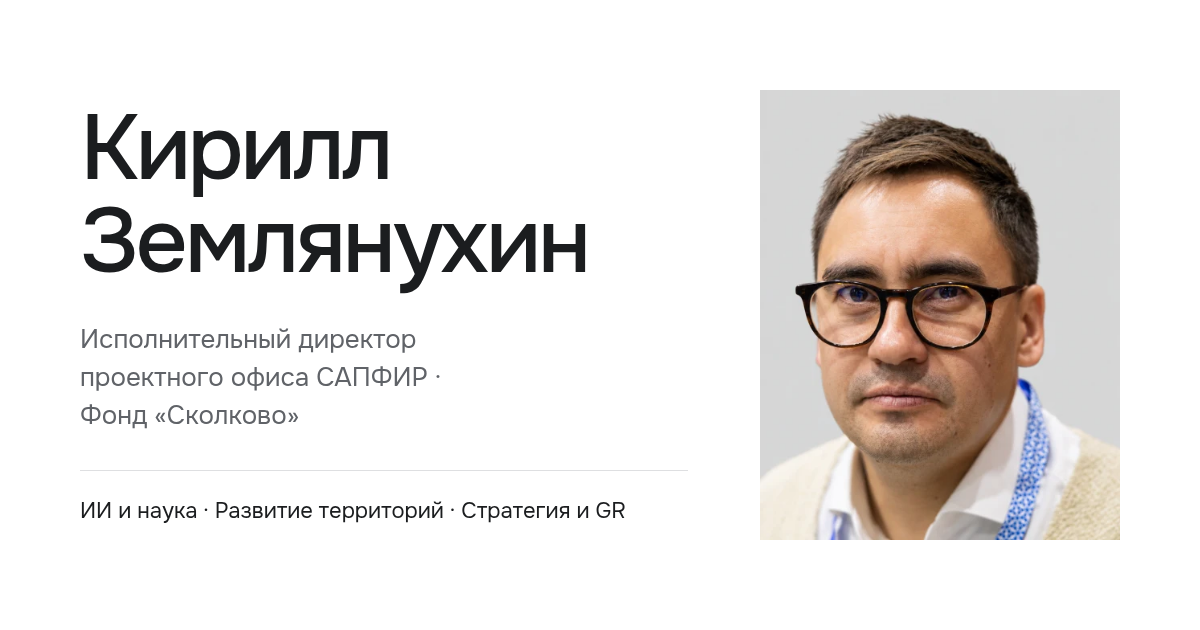
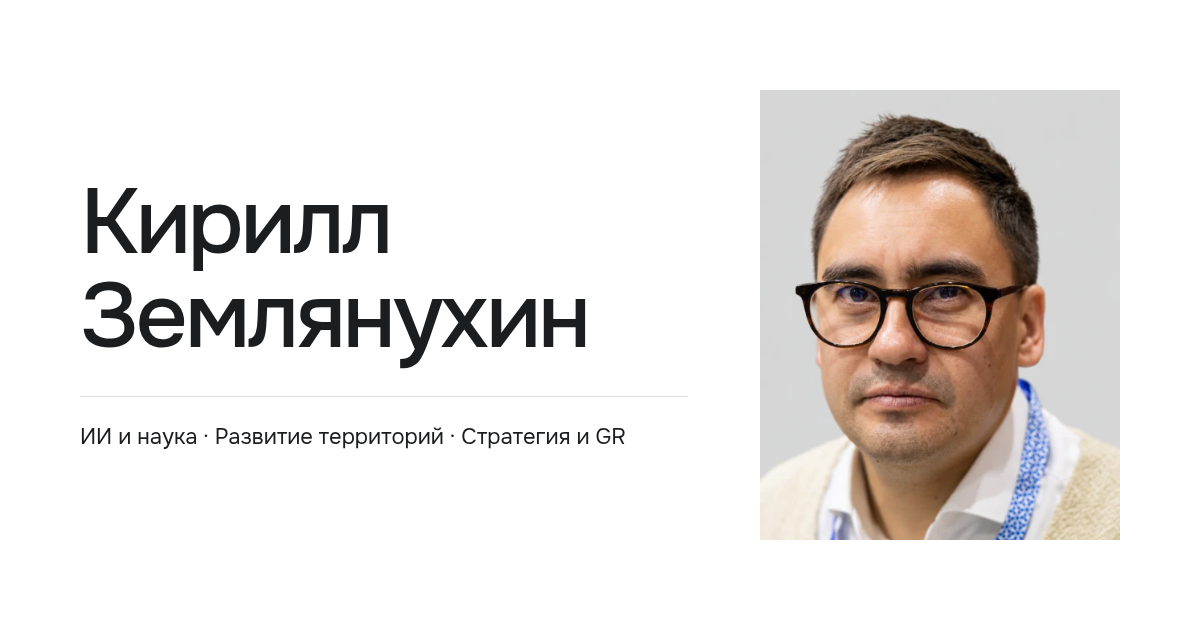
Remove role line and GitHub link; move AI foresight under SAPFIR

Changed region(s): [[0.0617, 0.181, 0.4933, 0.7238], [0.0617, 0.7841, 0.5242, 0.8444], [0.4008, 0.6635, 0.5242, 0.7238]]

diff --git a/style.css b/style.css
@@ -4,21 +4,22 @@
 @font-face{font-family:Onest;src:url('assets/fonts/onest-700.woff2') format('woff2');font-style:normal;font-weight:700;font-display:swap}
 :root{color-scheme:light;--paper:#fff;--ink:#1b1d1f;--muted:#606368;--line:#dedfe1;--focus:#365c80;--light:#f5f5f5;--light-muted:#c8cbd0}
 *{box-sizing:border-box}html{scroll-behavior:smooth;scroll-padding-top:28px}body{margin:0;background:var(--paper);color:var(--ink);font-family:Onest,Arial,sans-serif;font-size:18px;line-height:1.6;-webkit-font-smoothing:antialiased}::selection{color:white;background:#49545c}a{color:inherit;text-underline-offset:5px;text-decoration-thickness:1px}a:hover{text-decoration-color:currentColor}a:focus-visible{outline:3px solid var(--focus);outline-offset:6px}p,h1,h2,h3{margin:0}strong{font-weight:600}img{display:block;max-width:100%}svg{flex:none}.shell{width:min(1120px,calc(100% - 112px));margin-inline:auto}.navigation{display:flex;justify-content:space-between;align-items:center;min-height:96px;border-bottom:1px solid var(--line);font-size:14px}.nav-links{display:flex;gap:32px}.nav-links a{text-decoration:none}.nav-links a:hover{text-decoration:underline}.download{display:inline-flex;align-items:center;justify-content:center;gap:20px;padding:11px 18px;border:1px solid var(--ink);border-radius:2px;min-height:46px;text-decoration:none;transition:background .18s,color .18s}.download:hover{color:white;background:var(--ink)}.download svg{transition:transform .18s}.download:hover svg{transform:translateY(2px)}.skip{position:absolute;top:8px;left:16px;transform:translateY(-200%);padding:8px 16px;background:var(--paper);z-index:2}.skip:focus{transform:translateY(0)}
-.hero{display:grid;grid-template-columns:minmax(0,1fr) 280px;grid-template-areas:'name photo' 'role photo' 'intro photo';column-gap:64px;padding-block:48px 56px;align-items:start}h1{grid-area:name;font-size:clamp(62px,6.1vw,88px);font-weight:500;line-height:1.02;letter-spacing:-.035em;margin:0 0 24px}h1 span{display:block}.role{grid-area:role;text-wrap:pretty;color:var(--muted);font-size:16px;line-height:1.55;max-width:46ch;margin-bottom:24px}.intro{grid-area:intro;font-size:20px;line-height:1.6;max-width:59ch}.portrait{grid-area:photo;width:280px;height:350px;object-fit:cover;align-self:center}
+.hero{display:grid;grid-template-columns:minmax(0,1fr) 280px;grid-template-areas:'name photo' 'intro photo';column-gap:64px;padding-block:48px 56px;align-items:start}h1{grid-area:name;font-size:clamp(62px,6.1vw,88px);font-weight:500;line-height:1.02;letter-spacing:-.035em;margin:0 0 24px}h1 span{display:block}.intro{grid-area:intro;font-size:20px;line-height:1.6;max-width:59ch}.portrait{grid-area:photo;width:280px;height:350px;object-fit:cover;align-self:center}
 section{scroll-margin-top:28px}h2{font-size:32px;font-weight:500;line-height:1.25;letter-spacing:-.025em}h3{font-size:21px;line-height:1.35;font-weight:500;letter-spacing:-.015em}p{max-width:75ch}.directions{border-top:1px solid var(--line);padding-block:32px 56px}.directions h2{font-size:16px;letter-spacing:0;color:var(--muted);margin-bottom:24px}.directions-grid{display:grid;grid-template-columns:1.15fr 1fr 1fr;gap:48px}.directions-grid h3{font-size:20px;line-height:1.35;margin-bottom:12px;max-width:25ch}.directions-grid p{font-size:16px;line-height:1.55;color:var(--muted)}
-.results-band{background:var(--ink);color:var(--light);padding-block:48px 52px}.results-band h2{margin-bottom:32px}.results-grid{display:grid;grid-template-columns:1fr 1fr;gap:32px 64px}.results-grid article{border-top:1px solid #4b4d4f;padding-top:20px}.results-grid h3{font-size:22px;line-height:1.3;margin-bottom:14px}.results-grid p{font-size:17px;line-height:1.65;color:var(--light-muted)}.results-grid strong{color:var(--light);font-weight:600}.results-band ::selection{color:var(--ink);background:white}
+.results-band{background:var(--ink);color:var(--light);padding-block:48px 52px}.results-band h2{margin-bottom:32px}.results-grid{display:grid;grid-template-columns:1fr 1fr;grid-template-rows:auto auto;grid-auto-flow:column;gap:32px 64px}.results-grid article{border-top:1px solid #4b4d4f;padding-top:20px}.results-grid h3{font-size:22px;line-height:1.3;margin-bottom:14px}.results-grid p{font-size:17px;line-height:1.65;color:var(--light-muted)}.results-grid strong{color:var(--light);font-weight:600}.results-band ::selection{color:var(--ink);background:white}
 .analytics{padding-block:48px 72px}.analytics h2{margin-bottom:32px}.reports{display:grid;grid-template-columns:1fr 1fr;gap:48px}.report{display:grid;grid-template-columns:112px minmax(0,1fr);gap:24px;align-items:start}.cover-link{display:block;outline-offset:6px}.cover{width:112px;height:auto;box-shadow:0 0 0 1px rgba(27,29,31,.1),0 8px 18px -8px rgba(27,29,31,.35)}.report h3{font-size:19px;line-height:1.4;margin-bottom:12px;letter-spacing:-.01em}.report p{font-size:15px;line-height:1.6;color:var(--muted);margin-bottom:18px}.report-link{display:inline-flex;gap:12px;align-items:center;font-size:15px;line-height:1.6}.report-link svg{transition:transform .18s}.report-link:hover svg{transform:translate(2px,-2px)}.file-meta{display:block;font-size:13px;line-height:1.6;color:var(--muted);margin-top:8px}
 @media(max-width:1050px){.shell{width:calc(100% - 64px)}.hero{grid-template-columns:minmax(0,1fr) 224px;column-gap:40px}.portrait{width:224px;height:280px}h1{font-size:64px}.intro{font-size:18px}.directions-grid{gap:32px}.directions-grid h3{font-size:18px}.results-grid{gap:32px 40px}.reports{gap:32px}.report{grid-template-columns:88px minmax(0,1fr);gap:20px}.cover{width:88px}.report h3{font-size:18px}}
 @media(max-width:760px){.hero{grid-template-columns:minmax(0,1fr) 180px;column-gap:32px}h1{font-size:54px}.portrait{width:180px;height:225px}.directions-grid{gap:24px}.directions-grid h3{font-size:17px}.reports{grid-template-columns:1fr;gap:32px}.report{grid-template-columns:112px minmax(0,1fr);gap:28px}.cover{width:112px}.report h3{font-size:20px}.report p{font-size:16px}.results-grid{gap:28px 32px}.results-grid h3{font-size:20px}.results-grid p{font-size:16px}}
-@media(max-width:600px){.shell{width:calc(100% - 48px)}body{font-size:17px}.navigation{min-height:80px;font-size:13px}.nav-links{gap:20px}.download{padding:10px 12px;gap:10px;min-height:44px}.hero{grid-template-columns:100px minmax(0,1fr);grid-template-areas:'name name' 'photo role' 'intro intro';gap:24px 24px;padding-block:32px 36px}h1{font-size:clamp(36px,11.25vw,56px);line-height:1.04;margin:0;letter-spacing:-.035em}.portrait{width:100px;height:125px;align-self:start;transform:scaleX(-1)}.role{font-size:15px;margin:0;align-self:center;max-width:none}.intro{font-size:18px;line-height:1.6}.directions{padding-block:24px 32px}.directions h2{margin-bottom:20px;font-size:15px}.directions-grid{grid-template-columns:1fr;gap:20px}.directions-grid h3{font-size:20px;margin-bottom:6px;max-width:none}.directions-grid p{font-size:16px}.results-band{padding-block:32px 36px}h2{font-size:27px}.results-band h2{margin-bottom:24px}.results-grid{grid-template-columns:1fr;gap:24px}.results-grid article{padding-top:18px}.results-grid h3{font-size:21px;margin-bottom:10px}.results-grid p{font-size:16px;line-height:1.65}.analytics{padding-block:32px 44px}.analytics h2{margin-bottom:28px}.report{grid-template-columns:80px minmax(0,1fr);gap:20px}.cover{width:80px}.report h3{font-size:18px;line-height:1.4}.report p{font-size:15px;line-height:1.55;margin-bottom:12px}.report-link{font-size:14px;gap:10px}.file-meta{font-size:12px;margin-top:6px}.reports{gap:32px}}
-@media(max-width:360px){.shell{width:calc(100% - 36px)}.navigation{font-size:12px}.nav-links{gap:14px}.download{padding:9px 10px;gap:8px}.download svg{width:15px}.hero{grid-template-columns:88px minmax(0,1fr);gap:20px}.portrait{width:88px;height:110px}.role{font-size:14px}.report{grid-template-columns:64px minmax(0,1fr);gap:16px}.cover{width:64px}.report h3{font-size:17px}}
+@media(max-width:600px){.shell{width:calc(100% - 48px)}body{font-size:17px}.navigation{min-height:80px;font-size:13px}.nav-links{gap:20px}.download{padding:10px 12px;gap:10px;min-height:44px}.hero{grid-template-columns:minmax(0,1fr) 100px;grid-template-areas:'name photo' 'intro intro';align-items:center;gap:24px 24px;padding-block:32px 36px}h1{font-size:clamp(30px,8.6vw,44px);line-height:1.04;margin:0;letter-spacing:-.035em}.portrait{width:100px;height:125px;align-self:start}.intro{font-size:18px;line-height:1.6}.directions{padding-block:24px 32px}.directions h2{margin-bottom:20px;font-size:15px}.directions-grid{grid-template-columns:1fr;gap:20px}.directions-grid h3{font-size:20px;margin-bottom:6px;max-width:none}.directions-grid p{font-size:16px}.results-band{padding-block:32px 36px}h2{font-size:27px}.results-band h2{margin-bottom:24px}.results-grid{grid-template-columns:1fr;gap:24px}.results-grid article{padding-top:18px}.results-grid h3{font-size:21px;margin-bottom:10px}.results-grid p{font-size:16px;line-height:1.65}.analytics{padding-block:32px 44px}.analytics h2{margin-bottom:28px}.report{grid-template-columns:80px minmax(0,1fr);gap:20px}.cover{width:80px}.report h3{font-size:18px;line-height:1.4}.report p{font-size:15px;line-height:1.55;margin-bottom:12px}.report-link{font-size:14px;gap:10px}.file-meta{font-size:12px;margin-top:6px}.reports{gap:32px}}
+@media(max-width:360px){.shell{width:calc(100% - 36px)}.navigation{font-size:12px}.nav-links{gap:14px}.download{padding:9px 10px;gap:8px}.download svg{width:15px}.hero{grid-template-columns:minmax(0,1fr) 88px;gap:20px}.portrait{width:88px;height:110px}.report{grid-template-columns:64px minmax(0,1fr);gap:16px}.cover{width:64px}.report h3{font-size:17px}}
 @media(prefers-reduced-motion:reduce){html{scroll-behavior:auto}a,a svg{transition:none!important}}
 @page{size:A4;margin:16mm}
-@media print{.navigation,.skip{display:none}.shell{width:100%}.hero{grid-template-columns:1fr 100px;grid-template-areas:'name photo' 'role photo' 'intro intro';gap:12px 24px;padding:0 0 16px}h1{font-size:30pt;line-height:1.05;margin:0}h1 span{display:inline}.portrait{width:100px;height:125px;transform:none}.role{font-size:9pt;max-width:none;margin:0}.intro{font-size:10pt}.directions{padding:12px 0}.directions h2{font-size:10pt;margin-bottom:12px}.directions-grid{grid-template-columns:1fr 1fr 1fr;gap:20px}.directions-grid h3{font-size:10pt;margin-bottom:6px}.directions-grid p{font-size:9pt}.results-band{background:white;color:var(--ink);padding:14px 0;border-top:1px solid var(--line)}h2{font-size:16pt}.results-band h2{margin-bottom:14px}.results-grid{grid-template-columns:1fr 1fr;gap:16px 24px}.results-grid article{padding-top:10px;border-color:var(--line)}.results-grid h3{font-size:11pt;margin-bottom:8px}.results-grid p{font-size:9pt;line-height:1.5;color:var(--ink)}.results-grid strong{color:var(--ink)}.analytics{padding:16px 0 0;border-top:1px solid var(--line)}.analytics h2{margin-bottom:16px}.reports{grid-template-columns:1fr 1fr;gap:24px}.report{grid-template-columns:48px 1fr;gap:12px;break-inside:avoid}.cover{width:48px}.report h3{font-size:10pt;line-height:1.3;margin-bottom:6px}.report p{font-size:8pt;margin-bottom:8px}.report-link{font-size:9pt}.file-meta{font-size:8pt}article{break-inside:avoid}}
+@media print{.navigation,.skip{display:none}.shell{width:100%}.hero{grid-template-columns:1fr 100px;grid-template-areas:'name photo' 'intro photo';gap:12px 24px;padding:0 0 16px}h1{font-size:30pt;line-height:1.05;margin:0}h1 span{display:inline}.portrait{width:100px;height:125px;transform:none}.intro{font-size:10pt}.directions{padding:12px 0}.directions h2{font-size:10pt;margin-bottom:12px}.directions-grid{grid-template-columns:1fr 1fr 1fr;gap:20px}.directions-grid h3{font-size:10pt;margin-bottom:6px}.directions-grid p{font-size:9pt}.results-band{background:white;color:var(--ink);padding:14px 0;border-top:1px solid var(--line)}h2{font-size:16pt}.results-band h2{margin-bottom:14px}.results-grid{grid-template-columns:1fr 1fr;gap:16px 24px}.results-grid article{padding-top:10px;border-color:var(--line)}.results-grid h3{font-size:11pt;margin-bottom:8px}.results-grid p{font-size:9pt;line-height:1.5;color:var(--ink)}.results-grid strong{color:var(--ink)}.analytics{padding:16px 0 0;border-top:1px solid var(--line)}.analytics h2{margin-bottom:16px}.reports{grid-template-columns:1fr 1fr;gap:24px}.report{grid-template-columns:48px 1fr;gap:12px;break-inside:avoid}.cover{width:48px}.report h3{font-size:10pt;line-height:1.3;margin-bottom:6px}.report p{font-size:8pt;margin-bottom:8px}.report-link{font-size:9pt}.file-meta{font-size:8pt}article{break-inside:avoid}}
 
-.hero{grid-template-areas:'name photo' 'role photo' 'intro photo' 'contacts photo'}.contacts{grid-area:contacts;display:flex;flex-wrap:wrap;gap:8px 24px;font-size:16px;line-height:1.5;margin-top:24px}.contacts a{white-space:nowrap}
-@media(max-width:600px){.hero{grid-template-areas:'name name' 'photo role' 'intro intro' 'contacts contacts'}.contacts{font-size:15px;gap:10px 20px;margin-top:0}}
-@media print{.hero{grid-template-areas:'name photo' 'role photo' 'intro intro' 'contacts contacts'}.contacts{font-size:9pt;gap:8px 20px;margin-top:0}}
+.hero{grid-template-areas:'name photo' 'intro photo' 'contacts photo'}.contacts{grid-area:contacts;display:flex;flex-wrap:wrap;gap:8px 24px;font-size:16px;line-height:1.5;margin-top:24px}.contacts a{white-space:nowrap}
+@media(max-width:600px){.hero{grid-template-areas:'name photo' 'intro intro' 'contacts contacts'}.contacts{font-size:15px;gap:10px 20px;margin-top:0}}
+@media print{.hero{grid-template-areas:'name photo' 'intro photo' 'contacts contacts'}.contacts{font-size:9pt;gap:8px 20px;margin-top:0}}
 .footer{display:flex;flex-wrap:wrap;align-items:center;justify-content:space-between;gap:20px 40px;padding-block:32px 48px;border-top:1px solid var(--line);font-size:14px}.footer-name{color:var(--muted)}.footer .footer-contacts{margin:0 auto 0 0;font-size:15px}
 @media(max-width:600px){.footer{flex-direction:column;align-items:flex-start;gap:20px;padding-block:28px 40px}.footer .footer-contacts{margin:0;order:-1}}
 @media print{.footer{display:none}}
+@media(max-width:600px){.results-grid{grid-template-rows:none;grid-auto-flow:row}}

diff --git a/index.html b/index.html
@@ -5,14 +5,14 @@
 <meta name="description" content="ИИ, цифровые технологии и наука. Развитие территорий. Стратегия и GR. Ключевые результаты и аналитика САПФИР.">
 <meta name="theme-color" content="#ffffff"><meta property="og:type" content="profile"><meta property="og:locale" content="ru_RU"><meta property="og:title" content="Кирилл Землянухин"><meta property="og:description" content="ИИ, цифровые технологии и наука · Развитие территорий · Стратегия и GR">
 <meta property="og:url" content="https://qilimanjaro.github.io/"><meta property="og:image" content="https://qilimanjaro.github.io/assets/og-image.png"><meta property="og:image:width" content="1200"><meta property="og:image:height" content="630"><meta property="og:image:alt" content="Кирилл Землянухин — ИИ, наука, развитие территорий"><meta name="twitter:card" content="summary_large_image">
-<link rel="canonical" href="https://qilimanjaro.github.io/"><link rel="icon" href="assets/favicon.svg" type="image/svg+xml"><link rel="preload" href="assets/fonts/onest-400.woff2" as="font" type="font/woff2" crossorigin><link rel="preload" href="assets/fonts/onest-500.woff2" as="font" type="font/woff2" crossorigin><link rel="stylesheet" href="style.css?v=19204c886e">
+<link rel="canonical" href="https://qilimanjaro.github.io/"><link rel="icon" href="assets/favicon.svg" type="image/svg+xml"><link rel="preload" href="assets/fonts/onest-400.woff2" as="font" type="font/woff2" crossorigin><link rel="preload" href="assets/fonts/onest-500.woff2" as="font" type="font/woff2" crossorigin><link rel="stylesheet" href="style.css?v=73da3cab49">
 </head><body><a class="skip" href="#main">Перейти к содержанию</a>
 <nav class="navigation shell" aria-label="Разделы страницы"><div class="nav-links"><a href="#results">Результаты</a><a href="#analytics">Аналитика</a></div><a class="download" href="resume.pdf" download="Кирилл Землянухин — резюме.pdf">Резюме · PDF<svg aria-hidden="true" width="18" height="18" viewBox="0 0 24 24" fill="none" stroke="currentColor" stroke-width="1.5"><path d="M12 3v12m-5-5 5 5 5-5M5 16v5h14v-5"/></svg></a></nav>
-<main id="main"><header class="hero shell"><h1><span>Кирилл</span> <span>Землянухин</span></h1><p class="role">Исполнительный директор проектного офиса САПФИР&nbsp;· Фонд&nbsp;«Сколково»</p><p class="intro">Более 10 лет работаю на стыке науки, технологий и государственного управления. Запускаю организации, формирую команды и организую совместную работу государства, исследователей и бизнеса.</p><p class="contacts" aria-label="Контакты"><a href="tel:+79023066629">+7 902 30 666 29</a><a href="https://t.me/kirillzeml">@kirillzeml</a><a href="https://github.com/Qilimanjaro">GitHub</a></p><img class="portrait" src="assets/portrait.webp" width="448" height="560" alt="Портрет Кирилла Землянухина" fetchpriority="high"></header>
+<main id="main"><header class="hero shell"><h1><span>Кирилл</span> <span>Землянухин</span></h1><p class="intro">Более 10 лет работаю на стыке науки, технологий и государственного управления. Запускаю организации, формирую команды и организую совместную работу государства, исследователей и бизнеса.</p><p class="contacts" aria-label="Контакты"><a href="tel:+79023066629">+7 902 30 666 29</a><a href="https://t.me/kirillzeml">@kirillzeml</a></p><img class="portrait" src="assets/portrait.webp" width="448" height="560" alt="Портрет Кирилла Землянухина" fetchpriority="high"></header>
 <section id="directions" class="directions shell" aria-labelledby="directions-title"><h2 id="directions-title">Направления
 </h2><div class="directions-grid"><article><h3>ИИ, цифровые технологии и наука</h3><p>Исследовательские программы, научная аналитика и финансирование разработок.</p></article><article><h3>Развитие территорий</h3><p>Научно-образовательные кампусы, мастер-планы и инфраструктура.</p></article><article><h3>Стратегия и GR</h3><p>Федеральные проекты, технологические дорожные карты и взаимодействие с государством.</p></article></div></section>
 <section id="results" class="results-band" aria-labelledby="results-title"><div class="shell"><h2 id="results-title">Ключевые результаты
-</h2><div class="results-grid"><article><h3>Запуск САПФИР</h3><p>Участвовал в создании проектного офиса. Сформировал команду из <strong>23 человек</strong> и организовал выполнение программы из <strong>80 задач</strong>. Бюджет в 2025 году — <strong>150 млн рублей</strong>.</p></article><article><h3>Территория НЦФМ</h3><p>Организовал разработку и защиту мастер-плана научно-образовательной территории на <strong>700 га</strong>. Согласовал решения с Росатомом, правительством субъекта РФ и городом. По мастер-плану идёт строительство.</p></article><article><h3>Цифровые программы Росатома</h3><p>Координировал разработку <strong>семи дорожных карт</strong>, принятых и переданных государству. Готовил предложения по финансированию: за период работы на цифровые разработки Росатома привлечено <strong>свыше 20 млрд рублей</strong>.</p></article><article><h3>Международный форсайт ИИ</h3><p>Совместно со Сбером организовал исследование с участием <strong>свыше 270 учёных из 36 стран</strong>. Президент РФ сослался на его результаты на AI Journey 2025.</p></article></div></div></section>
+</h2><div class="results-grid"><article><h3>Запуск САПФИР</h3><p>Участвовал в создании проектного офиса. Сформировал команду из <strong>23 человек</strong> и организовал выполнение программы из <strong>80 задач</strong>. Бюджет в 2025 году — <strong>150 млн рублей</strong>.</p></article><article><h3>Международный форсайт ИИ</h3><p>Совместно со Сбером организовал исследование с участием <strong>свыше 270 учёных из 36 стран</strong>. Президент РФ сослался на его результаты на AI Journey 2025.</p></article><article><h3>Территория НЦФМ</h3><p>Организовал разработку и защиту мастер-плана научно-образовательной территории на <strong>700 га</strong>. Согласовал решения с Росатомом, правительством субъекта РФ и городом. По мастер-плану идёт строительство.</p></article><article><h3>Цифровые программы Росатома</h3><p>Координировал разработку <strong>семи дорожных карт</strong>, принятых и переданных государству. Готовил предложения по финансированию: за период работы на цифровые разработки Росатома привлечено <strong>свыше 20 млрд рублей</strong>.</p></article></div></div></section>
 <section id="analytics" class="analytics shell" aria-labelledby="analytics-title"><h2 id="analytics-title">Аналитика САПФИР
 </h2><div class="reports"><article class="report"><a class="cover-link" href="analytics/sapfir-standard-tom-a.pdf" aria-label="Стандарт качества исследований и разработок в сфере ИИ — Том А — PDF"><img class="cover" src="assets/sapfir-standard-tom-a-cover.webp" width="396" height="560" alt=""></a><div class="report-content"><h3>Стандарт качества исследований и разработок в сфере ИИ — Том А</h3><p>Методические рекомендации по обеспечению качества научных исследований и разработок в сфере искусственного интеллекта.</p><a class="report-link" href="analytics/sapfir-standard-tom-a.pdf">Открыть том<svg aria-hidden="true" width="16" height="16" viewBox="0 0 24 24" fill="none" stroke="currentColor" stroke-width="1.6"><path d="M5 19 19 5M5 5h14v14"/></svg></a><span class="file-meta">PDF · 305 стр. · 59 МБ</span></div></article><article class="report"><a class="cover-link" href="analytics/sapfir-standard-tom-b.pdf" aria-label="Стандарт качества исследований и разработок с применением ИИ — Том Б — PDF"><img class="cover" src="assets/sapfir-standard-tom-b-cover.webp" width="396" height="560" alt=""></a><div class="report-content"><h3>Стандарт качества исследований и разработок с применением ИИ — Том Б</h3><p>Методические рекомендации по оценке качества исследований и разработок, выполняемых с применением технологий искусственного интеллекта.</p><a class="report-link" href="analytics/sapfir-standard-tom-b.pdf">Открыть том<svg aria-hidden="true" width="16" height="16" viewBox="0 0 24 24" fill="none" stroke="currentColor" stroke-width="1.6"><path d="M5 19 19 5M5 5h14v14"/></svg></a><span class="file-meta">PDF · 369 стр. · 75 МБ</span></div></article><article class="report"><a class="cover-link" href="analytics/a-star-2024.pdf" aria-label="Публикации российских исследователей ИИ на конференциях A* — 2024 — PDF"><img class="cover" src="assets/a-star-2024-cover.webp" width="396" height="560" alt=""></a><div class="report-content"><h3>Публикации российских исследователей ИИ на конференциях A* — 2024</h3><p>Анализ публикационной активности российских специалистов на ведущих международных научных конференциях.</p><a class="report-link" href="analytics/a-star-2024.pdf">Открыть отчёт<svg aria-hidden="true" width="16" height="16" viewBox="0 0 24 24" fill="none" stroke="currentColor" stroke-width="1.6"><path d="M5 19 19 5M5 5h14v14"/></svg></a><span class="file-meta">PDF · 22 стр.</span></div></article><article class="report"><a class="cover-link" href="analytics/ai-foresight-2025.pdf" aria-label="Горизонты искусственного интеллекта — 2025 — PDF"><img class="cover" src="assets/ai-foresight-2025-cover.webp" width="396" height="560" alt=""></a><div class="report-content"><h3>Горизонты искусственного интеллекта — 2025</h3><p>Международный научный форсайт: перспективы развития технологий ИИ на десять лет. Русская версия.</p><a class="report-link" href="analytics/ai-foresight-2025.pdf">Открыть форсайт<svg aria-hidden="true" width="16" height="16" viewBox="0 0 24 24" fill="none" stroke="currentColor" stroke-width="1.6"><path d="M5 19 19 5M5 5h14v14"/></svg></a><span class="file-meta">PDF · 120 стр.</span></div></article></div></section>
-</main><footer class="footer shell"><p class="footer-name">© 2026 Кирилл Землянухин</p><p class="contacts footer-contacts" aria-label="Контакты"><a href="tel:+79023066629">+7 902 30 666 29</a><a href="https://t.me/kirillzeml">@kirillzeml</a><a href="https://github.com/Qilimanjaro">GitHub</a></p><a class="download" href="resume.pdf" download="Кирилл Землянухин — резюме.pdf">Резюме · PDF<svg aria-hidden="true" width="18" height="18" viewBox="0 0 24 24" fill="none" stroke="currentColor" stroke-width="1.5"><path d="M12 3v12m-5-5 5 5 5-5M5 16v5h14v-5"/></svg></a></footer></body></html>
+</main><footer class="footer shell"><p class="footer-name">© 2026 Кирилл Землянухин</p><p class="contacts footer-contacts" aria-label="Контакты"><a href="tel:+79023066629">+7 902 30 666 29</a><a href="https://t.me/kirillzeml">@kirillzeml</a></p><a class="download" href="resume.pdf" download="Кирилл Землянухин — резюме.pdf">Резюме · PDF<svg aria-hidden="true" width="18" height="18" viewBox="0 0 24 24" fill="none" stroke="currentColor" stroke-width="1.5"><path d="M12 3v12m-5-5 5 5 5-5M5 16v5h14v-5"/></svg></a></footer></body></html>
